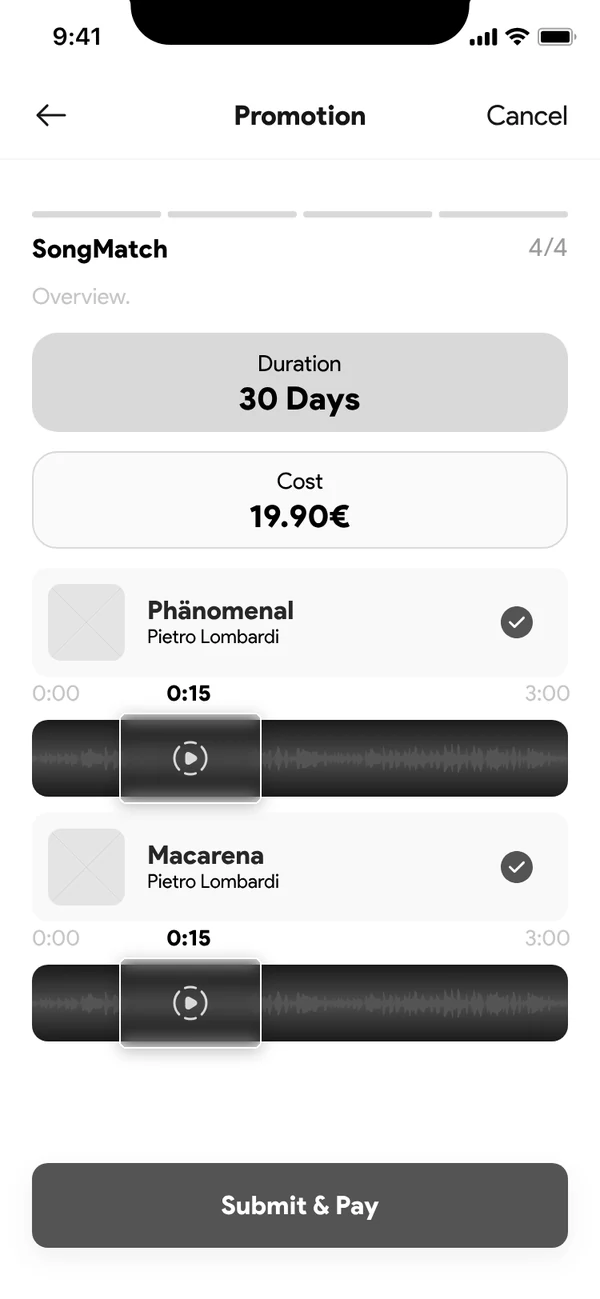
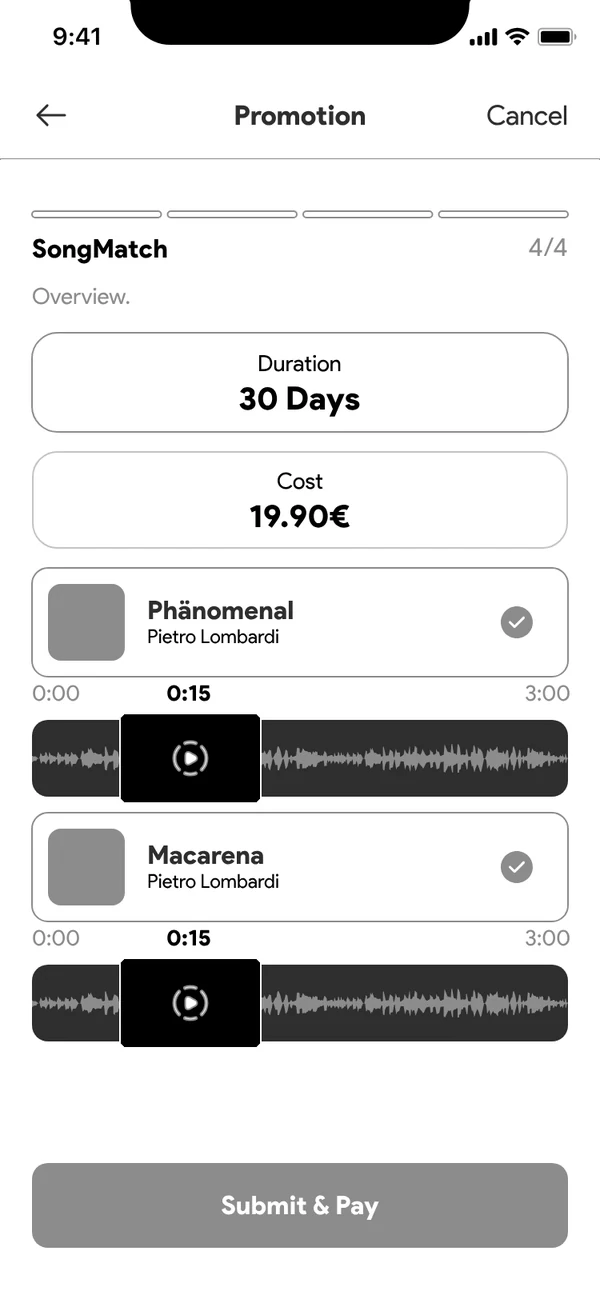
Fancircle: flatter wireframe style for SongMatch first version
Claude-Session: https://claude.ai/code/session_01UAuYD3GSVDpo2nKg4qsctN

diff --git a/fancircle/index.html b/fancircle/index.html
@@ -27,7 +27,7 @@
   <dl class="cs-facts"><div><dt>Role</dt><dd>Head of Design</dd></div><div><dt>Team</dt><dd>Founder, COO, project manager, 2 growing to 5 developers, QA</dd></div><div><dt>Timeline</dt><dd>2023 to 2025</dd></div><div><dt>Platform</dt><dd>iOS and Android</dd></div></dl>
   <ul class="cs-stats"><li><strong>700+</strong><span>screens across two role-based apps</span></li><li><strong>50+</strong><span>artist commitments before launch</span></li><li><strong>0 to 1</strong><span>from first sketch to v1.0</span></li></ul>
   <figure class="wide"><img src="../assets/thumb-fancircle.webp" alt="A hand holding a phone with the Fancircle project timeline, in a music studio." loading="lazy"></figure>
-  <article class="cs-body"><section><h2>My part</h2><p>I co-shaped the product with the founder and designed both apps end to end, including SongMatch and Creative Room, plus the prototypes and decks used with investors and artists. The founder set the vision, a project manager ran delivery, and a team that grew to 5 developers and QA built it.</p></section><section><h2>The problem</h2><p>Artists earn about 0.003€ per stream, and social media gives them reach but no real relationship with the fans who were there first. Most fans say they would support their artists directly if there were a good way to do it.</p></section><section><h2>Two apps, one product</h2><p>Fans want to discover and feel close. Artists want to publish, reward and understand their community. One interface for both would have made each side worse, so I designed two role-based apps on one shared system: 300+ frames for fans, 400+ for artists.</p><div class="pair"><figure class=""><img src="../assets/fc-fan-frames.webp" alt="Figma overview of the fan app." loading="lazy"><figcaption>Fan app</figcaption></figure><figure class=""><img src="../assets/fc-artist-frames.webp" alt="Figma overview of the artist app." loading="lazy"><figcaption>Artist app</figcaption></figure></div></section><section><h2>SongMatch: discovery like dating</h2><p>Scrolling a catalogue is tiring. I borrowed a gesture everyone knows: swipe right to like a song, left to skip. Every like lands in a playlist the fan can keep.</p><p></p><div class="phones"><figure><img src="../assets/smf-explore.webp" alt="The SongMatch card on the Explore page." loading="lazy"><figcaption>1. Found on Explore</figcaption></figure><figure><img src="../assets/smf-song.webp" alt="A song card with a 15-second clip playing, and skip and like buttons." loading="lazy"><figcaption>2. Hear a 15-second clip</figcaption></figure><figure><img src="../assets/smf-like.webp" alt="Swiping right on a song: a heart appears and the song goes to a playlist." loading="lazy"><figcaption>3. Swipe right to like</figcaption></figure><figure><img src="../assets/smf-next.webp" alt="The next song card, with the liked-songs counter at the top." loading="lazy"><figcaption>4. Straight to the next song</figcaption></figure><figure><img src="../assets/smf-playlist.webp" alt="The SongMatch Likes playlist with the liked songs." loading="lazy"><figcaption>5. Every like saved to a playlist</figcaption></figure></div><b>The first version</b>, the screens I first handed to the developers, shown here in greyscale. Fans stopped the clip with a button. Swiping replaced it, because a swipe is the answer and the next song in one move.<div class="phones"><figure><img src="../assets/smv1-f1.webp" alt="First version of the SongMatch song card, with a Stop button, in greyscale." loading="lazy"><figcaption>First version: tap Stop</figcaption></figure><figure><img src="../assets/smv1-f2.webp" alt="First version of the liked-songs playlist, in greyscale." loading="lazy"><figcaption>First version: the temporary playlist</figcaption></figure></div></section><section><h2>SongMatch for artists: pay to be heard, see if it worked</h2><p>Fans swipe, but artists need a way into that stack. I designed the artist side as a four-step setup: pick songs, choose the clip fans will hear, pick a plan, and review before paying.</p><div class="phones"><figure><img src="../assets/sm-step1-songs.webp" alt="Step 1: choosing songs from the artist&#x27;s discography." loading="lazy"><figcaption>1. Pick songs</figcaption></figure><figure><img src="../assets/sm-step2-clip.webp" alt="Step 2: dragging a 15-second selection on each song&#x27;s waveform." loading="lazy"><figcaption>2. Choose the 15 seconds</figcaption></figure><figure><img src="../assets/sm-step3-paid.webp" alt="Step 3: a paid plan by duration, with a slider showing 15 days, about 2,400 listens, for 29.90 euros." loading="lazy"><figcaption>3. Pick a plan</figcaption></figure><figure><img src="../assets/sm-step4-review.webp" alt="Step 4: review of songs, clips, plan, cost and payment before launch." loading="lazy"><figcaption>4. Review and launch</figcaption></figure></div><b>The first version</b>, shown in greyscale. Artists set cost, duration and views as three separate targets. The final version reduces the plan to one choice, how long it runs, and shows the estimated listens that buys.<div class="phones"><figure><img src="../assets/smv1-a1.webp" alt="First version, step 1: choosing songs, in greyscale." loading="lazy"><figcaption>v1. Choose songs</figcaption></figure><figure><img src="../assets/smv1-a2.webp" alt="First version, step 2: setting a 15-second preview on a waveform, in greyscale." loading="lazy"><figcaption>v1. Set preview</figcaption></figure><figure><img src="../assets/smv1-a3.webp" alt="First version, step 3: a free plan, or cost, duration and views targets set with a slider, in greyscale." loading="lazy"><figcaption>v1. Three targets to set</figcaption></figure><figure><img src="../assets/smv1-a4.webp" alt="First version, step 4: overview with duration, cost and the songs before paying, in greyscale." loading="lazy"><figcaption>v1. Overview and pay</figcaption></figure></div><ul><li><b>The artist picks the 15 seconds.</b> A fan decides in one hook, so the artist chooses which part plays, starting from a default clip.</li><li><b>Every price shows what it buys.</b> Plans show estimated listens next to the cost, and a free tier (100 views a month) lets new artists try it first.</li><li><b>Results in fans, not impressions.</b> Each promotion shows likes against skips and new followers, with a prompt to renew as it ends.</li></ul><div class="phones"><figure><img src="../assets/sm-active.webp" alt="Promotions overview with progress bars, like and dislike ratios, and a renew prompt." loading="lazy"><figcaption>Active promotions</figcaption></figure><figure><img src="../assets/sm-details.webp" alt="Promotion details: plan, progress, total listens, likes and new followers." loading="lazy"><figcaption>Promotion details</figcaption></figure><figure><img src="../assets/sm-intro.webp" alt="SongMatch intro screen: Music for the right ears, with a swipeable song card." loading="lazy"><figcaption>How SongMatch introduces itself</figcaption></figure></div></section><section><h2>Creative Room: feedback pinned to the moment</h2><p>"The middle part feels off" wastes everyone's time. In Creative Room, collaborators select part of the waveform and leave a note there, SoundCloud style, and a timeline keeps every upload, comment and task in order.</p><p></p><figure class="wide"><img src="../assets/fancircle-creative-room.webp" alt="Creative Room: a song&#x27;s waveform with time-stamped comments, next to the feedback history." loading="lazy"><figcaption>Comments pinned to the waveform</figcaption></figure><figure class="wide"><img src="../assets/fc-timeline.webp" alt="Creative Room project timeline." loading="lazy"><figcaption>The project timeline</figcaption></figure></section><section><h2>Outcome</h2><ul><li>v1.0 designed and built for iOS and Android.</li><li>50+ artist commitments before launch, won with the app prototypes and pitch decks I designed.</li><li>A registered EU trademark.</li></ul><p>The product did not take off. The company ran out of money before it found its users.</p></section><section><h2>What I'd do differently</h2><p>Our scope grew faster than the team could build, and the core loop was never tested on its own. Today I'd push for a tight MVP around that one loop, agree on a single success metric, and put it in front of real fans first. Saying no to features is part of the job.</p></section></article>
+  <article class="cs-body"><section><h2>My part</h2><p>I co-shaped the product with the founder and designed both apps end to end, including SongMatch and Creative Room, plus the prototypes and decks used with investors and artists. The founder set the vision, a project manager ran delivery, and a team that grew to 5 developers and QA built it.</p></section><section><h2>The problem</h2><p>Artists earn about 0.003€ per stream, and social media gives them reach but no real relationship with the fans who were there first. Most fans say they would support their artists directly if there were a good way to do it.</p></section><section><h2>Two apps, one product</h2><p>Fans want to discover and feel close. Artists want to publish, reward and understand their community. One interface for both would have made each side worse, so I designed two role-based apps on one shared system: 300+ frames for fans, 400+ for artists.</p><div class="pair"><figure class=""><img src="../assets/fc-fan-frames.webp" alt="Figma overview of the fan app." loading="lazy"><figcaption>Fan app</figcaption></figure><figure class=""><img src="../assets/fc-artist-frames.webp" alt="Figma overview of the artist app." loading="lazy"><figcaption>Artist app</figcaption></figure></div></section><section><h2>SongMatch: discovery like dating</h2><p>Scrolling a catalogue is tiring. I borrowed a gesture everyone knows: swipe right to like a song, left to skip. Every like lands in a playlist the fan can keep.</p><p></p><div class="phones"><figure><img src="../assets/smf-explore.webp" alt="The SongMatch card on the Explore page." loading="lazy"><figcaption>1. Found on Explore</figcaption></figure><figure><img src="../assets/smf-song.webp" alt="A song card with a 15-second clip playing, and skip and like buttons." loading="lazy"><figcaption>2. Hear a 15-second clip</figcaption></figure><figure><img src="../assets/smf-like.webp" alt="Swiping right on a song: a heart appears and the song goes to a playlist." loading="lazy"><figcaption>3. Swipe right to like</figcaption></figure><figure><img src="../assets/smf-next.webp" alt="The next song card, with the liked-songs counter at the top." loading="lazy"><figcaption>4. Straight to the next song</figcaption></figure><figure><img src="../assets/smf-playlist.webp" alt="The SongMatch Likes playlist with the liked songs." loading="lazy"><figcaption>5. Every like saved to a playlist</figcaption></figure></div><b>The first version</b>, the screens I first handed to the developers, shown here as wireframes. Fans stopped the clip with a button. Swiping replaced it, because a swipe is the answer and the next song in one move.<div class="phones"><figure><img src="../assets/smv1-f0.webp" alt="First version of the song player with a Join button, in greyscale." loading="lazy"><figcaption>First version: the player</figcaption></figure><figure><img src="../assets/smv1-f1.webp" alt="First version of the SongMatch song card, with a Stop button, in greyscale." loading="lazy"><figcaption>First version: tap Stop</figcaption></figure><figure><img src="../assets/smv1-f2.webp" alt="First version of the liked-songs playlist, in greyscale." loading="lazy"><figcaption>First version: the temporary playlist</figcaption></figure></div></section><section><h2>SongMatch for artists: pay to be heard, see if it worked</h2><p>Fans swipe, but artists need a way into that stack. I designed the artist side as a four-step setup: pick songs, choose the clip fans will hear, pick a plan, and review before paying.</p><div class="phones"><figure><img src="../assets/sm-step1-songs.webp" alt="Step 1: choosing songs from the artist&#x27;s discography." loading="lazy"><figcaption>1. Pick songs</figcaption></figure><figure><img src="../assets/sm-step2-clip.webp" alt="Step 2: dragging a 15-second selection on each song&#x27;s waveform." loading="lazy"><figcaption>2. Choose the 15 seconds</figcaption></figure><figure><img src="../assets/sm-step3-paid.webp" alt="Step 3: a paid plan by duration, with a slider showing 15 days, about 2,400 listens, for 29.90 euros." loading="lazy"><figcaption>3. Pick a plan</figcaption></figure><figure><img src="../assets/sm-step4-review.webp" alt="Step 4: review of songs, clips, plan, cost and payment before launch." loading="lazy"><figcaption>4. Review and launch</figcaption></figure></div><b>The first version</b>, shown as wireframes. Artists set cost, duration and views as three separate targets. The final version reduces the plan to one choice, how long it runs, and shows the estimated listens that buys.<div class="phones"><figure><img src="../assets/smv1-a1.webp" alt="First version, step 1: choosing songs, in greyscale." loading="lazy"><figcaption>v1. Choose songs</figcaption></figure><figure><img src="../assets/smv1-a2.webp" alt="First version, step 2: setting a 15-second preview on a waveform, in greyscale." loading="lazy"><figcaption>v1. Set preview</figcaption></figure><figure><img src="../assets/smv1-a3.webp" alt="First version, step 3: a free plan, or cost, duration and views targets set with a slider, in greyscale." loading="lazy"><figcaption>v1. Three targets to set</figcaption></figure><figure><img src="../assets/smv1-a4.webp" alt="First version, step 4: overview with duration, cost and the songs before paying, in greyscale." loading="lazy"><figcaption>v1. Overview and pay</figcaption></figure></div><ul><li><b>The artist picks the 15 seconds.</b> A fan decides in one hook, so the artist chooses which part plays, starting from a default clip.</li><li><b>Every price shows what it buys.</b> Plans show estimated listens next to the cost, and a free tier (100 views a month) lets new artists try it first.</li><li><b>Results in fans, not impressions.</b> Each promotion shows likes against skips and new followers, with a prompt to renew as it ends.</li></ul><div class="phones"><figure><img src="../assets/sm-active.webp" alt="Promotions overview with progress bars, like and dislike ratios, and a renew prompt." loading="lazy"><figcaption>Active promotions</figcaption></figure><figure><img src="../assets/sm-details.webp" alt="Promotion details: plan, progress, total listens, likes and new followers." loading="lazy"><figcaption>Promotion details</figcaption></figure><figure><img src="../assets/sm-intro.webp" alt="SongMatch intro screen: Music for the right ears, with a swipeable song card." loading="lazy"><figcaption>How SongMatch introduces itself</figcaption></figure></div></section><section><h2>Creative Room: feedback pinned to the moment</h2><p>"The middle part feels off" wastes everyone's time. In Creative Room, collaborators select part of the waveform and leave a note there, SoundCloud style, and a timeline keeps every upload, comment and task in order.</p><p></p><figure class="wide"><img src="../assets/fancircle-creative-room.webp" alt="Creative Room: a song&#x27;s waveform with time-stamped comments, next to the feedback history." loading="lazy"><figcaption>Comments pinned to the waveform</figcaption></figure><figure class="wide"><img src="../assets/fc-timeline.webp" alt="Creative Room project timeline." loading="lazy"><figcaption>The project timeline</figcaption></figure></section><section><h2>Outcome</h2><ul><li>v1.0 designed and built for iOS and Android.</li><li>50+ artist commitments before launch, won with the app prototypes and pitch decks I designed.</li><li>A registered EU trademark.</li></ul><p>The product did not take off. The company ran out of money before it found its users.</p></section><section><h2>What I'd do differently</h2><p>Our scope grew faster than the team could build, and the core loop was never tested on its own. Today I'd push for a tight MVP around that one loop, agree on a single success metric, and put it in front of real fans first. Saying no to features is part of the job.</p></section></article>
   <a class="next" href="../career-navig8r/"><span>Next case study</span><b>Career Navig8r</b><em>How do we get more mentors to finish their profile?</em></a>
 </main>
 <footer class="contact wrap">

diff --git a/_build/gen.py b/_build/gen.py
@@ -51,15 +51,16 @@ PAGES = {
                ("smf-like.webp","Swiping right on a song: a heart appears and the song goes to a playlist.","3. Swipe right to like"),
                ("smf-next.webp","The next song card, with the liked-songs counter at the top.","4. Straight to the next song"),
                ("smf-playlist.webp","The SongMatch Likes playlist with the liked songs.","5. Every like saved to a playlist")),
-        "<b>The first version</b>, the screens I first handed to the developers, shown here in greyscale. Fans stopped the clip with a button. Swiping replaced it, because a swipe is the answer and the next song in one move.",
-        phones(("smv1-f1.webp","First version of the SongMatch song card, with a Stop button, in greyscale.","First version: tap Stop"),
+        "<b>The first version</b>, the screens I first handed to the developers, shown here as wireframes. Fans stopped the clip with a button. Swiping replaced it, because a swipe is the answer and the next song in one move.",
+        phones(("smv1-f0.webp","First version of the song player with a Join button, in greyscale.","First version: the player"),
+               ("smv1-f1.webp","First version of the SongMatch song card, with a Stop button, in greyscale.","First version: tap Stop"),
                ("smv1-f2.webp","First version of the liked-songs playlist, in greyscale.","First version: the temporary playlist"))),
     sec("SongMatch for artists: pay to be heard, see if it worked","Fans swipe, but artists need a way into that stack. I designed the artist side as a four-step setup: pick songs, choose the clip fans will hear, pick a plan, and review before paying.",
         phones(("sm-step1-songs.webp","Step 1: choosing songs from the artist's discography.","1. Pick songs"),
                ("sm-step2-clip.webp","Step 2: dragging a 15-second selection on each song's waveform.","2. Choose the 15 seconds"),
                ("sm-step3-paid.webp","Step 3: a paid plan by duration, with a slider showing 15 days, about 2,400 listens, for 29.90 euros.","3. Pick a plan"),
                ("sm-step4-review.webp","Step 4: review of songs, clips, plan, cost and payment before launch.","4. Review and launch")),
-        "<b>The first version</b>, shown in greyscale. Artists set cost, duration and views as three separate targets. The final version reduces the plan to one choice, how long it runs, and shows the estimated listens that buys.",
+        "<b>The first version</b>, shown as wireframes. Artists set cost, duration and views as three separate targets. The final version reduces the plan to one choice, how long it runs, and shows the estimated listens that buys.",
         phones(("smv1-a1.webp","First version, step 1: choosing songs, in greyscale.","v1. Choose songs"),
                ("smv1-a2.webp","First version, step 2: setting a 15-second preview on a waveform, in greyscale.","v1. Set preview"),
                ("smv1-a3.webp","First version, step 3: a free plan, or cost, duration and views targets set with a slider, in greyscale.","v1. Three targets to set"),
